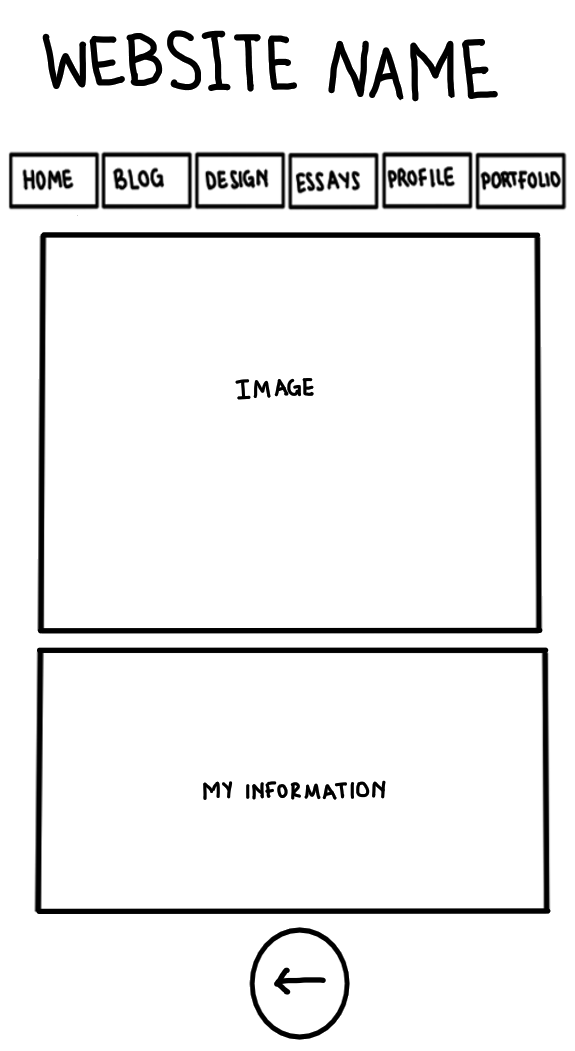
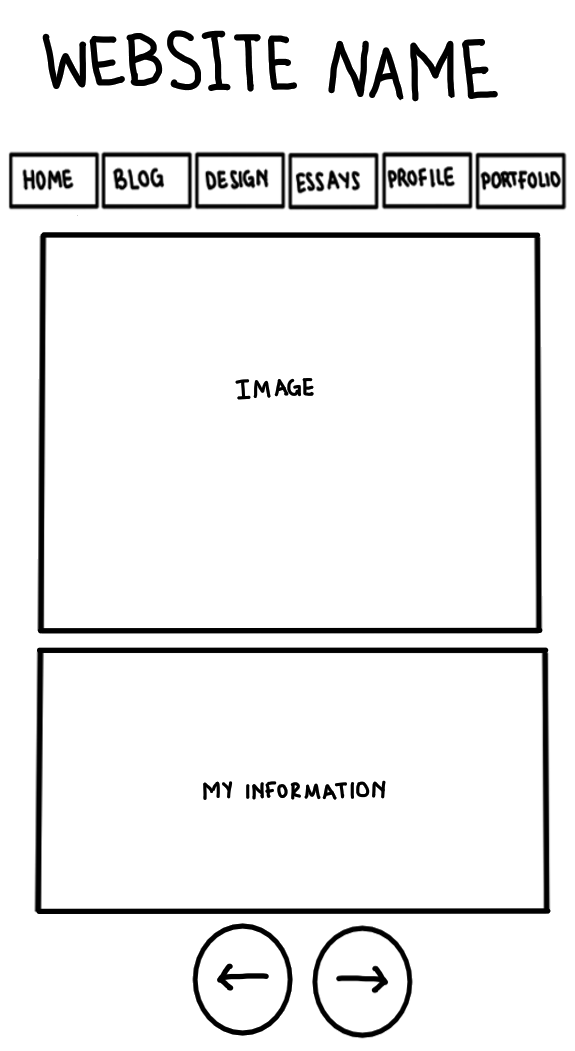
Added Placeholder Images for the different Homepages

Changed region(s): [[0.3252, 0.883, 0.7391, 1.0], [0.4139, 0.8525, 0.4435, 0.883]]

diff --git a/design/wireframes.html b/design/wireframes.html
@@ -34,39 +34,59 @@ Zandile's Website
     <h2>Homepage</h2>
     <img src="design-images/Home - Wireframe.png" width="900" height="700" alt="A wireframe image of my website's homepage" title="Homepage Wireframe">
     <img src="design-images/Home - Mobile Wireframe.png" width="350" height="700" alt="A wireframe image of a mobile verson of my website's homepage" title="Homepage Mobile Wireframe">
-    <p>The homepage will have the website name at the top of the page in the middle. Underneath it will be a navigation bar that the viewer can click to go to other pages. The rest of 
-       the page will be a large image that represents who I am or the theme of my website.</p>
+    <p>The homepage will have the website name at the top middle of the page. Underneath it will be a navigation menu that the user can click on to go to other pages. The rest of the
+       page will be a large image that represents the theme of my website. I might animate the image to make it move around the page. Underneath the image, there will be a button to go 
+       to the next page.</p>
+
+    <p>If I were to create a mobile version of my website, the homepage would look like the image on the right. As seen in the image, the mobile version has the same structure as the 
+       desktop version. The navigation menu and the website name will be at the top of the page. Also, because in the desktop version the image is landscape, I would have to make sure 
+       that the full image is visible and not scrollable with the portrait view of a mobile phone.</p>
     
     <h2>Blog</h2>
     <img src="design-images/Blog - Wireframe.png" width="900" height="700" alt="A wireframe image of my website's blog page" title="Blog Page Wireframe">
     <img src="design-images/Blog - Mobile Wireframe.png" width="350" height="700" alt="A wireframe image of a mobile verson of my website's blog page" title="Blog Page Mobile Wireframe">
-    <p>The blog page will have the website name at the top left corner and a navigation bar at the top right corner. On the left side of the page there will be links to other blog posts. 
+    <p>The blog page will have the website name at the top left corner and a navigation menu at the top right/middle. On the left side of the page there will be links to other blog posts. 
        The middle of the page will be the blog post that is currently opened (It will be made to look like the pages of a book hence there are two pages and a divider in the middle). On 
-       the right, there will be buttons to go back to the previous page as well as the next page.</p>
+       the right, there will be buttons to go back to the previous page or the next page.</p>
+   
+    <p>A mobile version of the blog page would have most of the same structure as the desktop version. Howvever, instead of the blog appearing as two open pages of a book, it will be one so the 
+       user will be able to flip the page by swiping on their screen from right to left. The back/next buttons would also be moved to the bottom of the page to accomodate the blog.</p>
 
     <h2>Design</h2>
     <img src="design-images/Design - Wireframe.png" width="900" height="700" alt="A wireframe image of my website's design page" title="Design Page Wireframe">
     <img src="design-images/Design - Mobile Wireframe.png" width="350" height="700" alt="A wireframe image of a mobile verson of my website's design page" title="Design Page Mobile Wireframe">
-    <p>The design page will have the website name at the top left corner and a navigation bar at the top right corner. On the left side of the page there will be images related to the whatever 
-       information is written in the middle of the page where it says "Design Process." Below it are buttons to go to go back to the previous page and the next page.</p>
+    <p>This is the structure for all the design pages (wireframes, IxD, and the style guide). The design pages will have the website name at the top left corner and a navigation menu at the top 
+       right/middle. On the left side of the page there will be images related to the topic written about in the middle of the page. Below it will be buttons to go back to the previous page and 
+       the next page.</p>
+
+    <p>A mobile version of the design pages would be structured a bit differently. The images would be placed at the top of the page after the menu then the paragraphs related to it would be
+       placed below it. The buttons would stay at the bottom of the page.</p>
 
     <h2>Essays</h2>
     <img src="design-images/Essays - Wireframe.png" width="900" height="700" alt="A wireframe image of my website's essay page" title="Essay Page Wireframe">
     <img src="design-images/Essays - Mobile Wireframe.png" width="350" height="700" alt="A wireframe image of a mobile verson of my website's essay page" title="Essay Page Mobile Wireframe">
-    <p>The essay page will have the website name at the top left corner and a navigation bar at the top right corner. On the left side of the page will be the title of the essay as well as a 
-       summary. The large rectangle is the essay. On the right there will be buttons to go back to the previous page and the next page.</p> 
+    <p>The essay page will have the website name at the top left corner and a navigation menu at the top right/middle. On the left side of the page will be the title of the essay as well as a 
+       summary. The essay will be in the middle of the page then the buttons will be placed next to it on the right.</p> 
+
+    <p>A mobile version of the essay pages will have the title and a summary at the top of the page. Then below it would be the essay and the buttons.</p>
 
     <h2>Profile</h2>
     <img src="design-images/Profile - Wireframe.png" width="900" height="700" alt="A wireframe image of my website's profile page" title="Profile Page Wireframe">  
     <img src="design-images/Profile - Mobile Wireframe.png" width="350" height="700" alt="A wireframe image of a mobile verson of my website's profile page" title="Profile Page Mobile Wireframe"> 
-    <p>The profile page will have the website name at the top left corner and a navigation bar at the top right corner. On the left there will be a picture of myself and on the right/middle 
-       there will be paragraphs with my information. Below this there will be buttons to go back and to go to the next page.</p>
+    <p>The profile page will have the website name at the top left corner and a navigation menu at the top right/middle. On the left there will be a picture of myself and in the middle there will 
+       be paragraphs with my information. Below this there will be buttons to go back and to go to the next page.</p>
+
+    <p>Like the design page, a mobile version of the profile page will have an image at the top and information at the bottom. The buttons will remain at the bottom of the page.</p>
 
     <h2>Portfolio</h2>
     <img src="design-images/Portfolio - Wireframe.png" width="900" height="700" alt="A wireframe image of my website's portfolio page" title="Portfolio Page Wireframe">
     <img src="design-images/Portfolio - Mobile Wireframe.png" width="350" height="700" alt="A wireframe image of a mobile verson of my website's portfolio page" title="Portfolio Page Mobile Wireframe">
-    <p>The portfolio page will have the website name at the top left corner and a navigation bar at the top right corner. The large rectangles represent screenshots of my artworks, digital art, games, 
-       and animations. Below them are "read more" buttons for viewers to see more information about the art as well as a button to go to the next page.</p>
+    <p>The portfolio page will have the website name at the top left corner and a navigation menu at the top right/middle. The large rectangles represent screenshots of my artworks, digital art, games, 
+       and animations. Below them will be "read more" buttons for users to see more information about the art as well as a button to go to the next page. The next page will be another page of works. I 
+       want to have one page for traditional art, another one for digital art, and a third one for my games. Because the Portfolio pages are last in the sequence of the website, the last portfolio page 
+       will have a button that takes the user back to the Homepage.</p>
+    
+    <p>A mobile version of the Portfolio page will show one panel at a time. Each one will take up the whole space on the screen so to go to the next panel, the user will click on the next button.</p>
 </main>
 
 <button id="wireframes1">Back</button>

diff --git a/scripts/buttons.js b/scripts/buttons.js
@@ -4,7 +4,7 @@ document.addEventListener("DOMContentLoaded", function() {
     const h1 = document.querySelector("h1");
 
     button.addEventListener("click", function() {
-        h1.innerText = "Welcome to my website";
+        h1.innerText = "WELCOME TO MY WEBSITE!";
     });
 });
 
@@ -28,111 +28,111 @@ document.addEventListener("DOMContentLoaded", function() {
 });
 
 document.addEventListener("DOMContentLoaded", function() {
-    document.getElementById("week1-blog1").addEventListener("click", function() {
+    document.getElementById("week1-Blog1").addEventListener("click", function() {
     window.location.href = "/WSOA3028A_2562617/blogs/index.html";
     });
 
-    document.getElementById("week1-blog2").addEventListener("click", function() {
+    document.getElementById("week1-Blog2").addEventListener("click", function() {
     window.location.href = "/WSOA3028A_2562617/blogs/week2.html";
     });
 });
 
 document.addEventListener("DOMContentLoaded", function() {
-    document.getElementById("week2-blog1").addEventListener("click", function() {
+    document.getElementById("week2-Blog1").addEventListener("click", function() {
     window.location.href = "/WSOA3028A_2562617/blogs/week1.html";
     });
 
-    document.getElementById("week2-blog2").addEventListener("click", function() {
+    document.getElementById("week2-Blog2").addEventListener("click", function() {
     window.location.href = "/WSOA3028A_2562617/blogs/week3.html";
     });
 });
 
 document.addEventListener("DOMContentLoaded", function() {
-    document.getElementById("week3-blog1").addEventListener("click", function() {
+    document.getElementById("week3-Blog1").addEventListener("click", function() {
     window.location.href = "/WSOA3028A_2562617/blogs/week2.html";
     });
 
-    document.getElementById("week3-blog2").addEventListener("click", function() {
+    document.getElementById("week3-Blog2").addEventListener("click", function() {
     window.location.href = "/WSOA3028A_2562617/blogs/week4.html";
     });
 });
 
 document.addEventListener("DOMContentLoaded", function() {
-    document.getElementById("week4-blog1").addEventListener("click", function() {
+    document.getElementById("week4-Blog1").addEventListener("click", function() {
     window.location.href = "/WSOA3028A_2562617/blogs/week3.html";
     });
 
-    document.getElementById("week4-blog2").addEventListener("click", function() {
+    document.getElementById("week4-Blog2").addEventListener("click", function() {
     window.location.href = "/WSOA3028A_2562617/blogs/week6.html";
     });
 });
 
 document.addEventListener("DOMContentLoaded", function() {
-    document.getElementById("week6-blog1").addEventListener("click", function() {
+    document.getElementById("week6-Blog1").addEventListener("click", function() {
     window.location.href = "/WSOA3028A_2562617/blogs/week4.html";
     });
 
-    document.getElementById("week6-blog2").addEventListener("click", function() {
+    document.getElementById("week6-Blog2").addEventListener("click", function() {
     window.location.href = "/WSOA3028A_2562617/blogs/week8.html";
     });
 });
 
 document.addEventListener("DOMContentLoaded", function() {
-    document.getElementById("week8-blog1").addEventListener("click", function() {
+    document.getElementById("week8-Blog1").addEventListener("click", function() {
     window.location.href = "/WSOA3028A_2562617/blogs/week6.html";
     });
 
-    document.getElementById("week8-blog2").addEventListener("click", function() {
+    document.getElementById("week8-Blog2").addEventListener("click", function() {
     window.location.href = "/WSOA3028A_2562617/blogs/week9.html";
     });
 });
 
 document.addEventListener("DOMContentLoaded", function() {
-    document.getElementById("week9-blog1").addEventListener("click", function() {
+    document.getElementById("week9-Blog1").addEventListener("click", function() {
     window.location.href = "/WSOA3028A_2562617/blogs/week8.html";
     });
 
-    document.getElementById("week9-blog2").addEventListener("click", function() {
+    document.getElementById("week9-Blog2").addEventListener("click", function() {
     window.location.href = "/WSOA3028A_2562617/blogs/week10.html";
     });
 });
 
 document.addEventListener("DOMContentLoaded", function() {
-    document.getElementById("week10-blog1").addEventListener("click", function() {
+    document.getElementById("week10-Blog1").addEventListener("click", function() {
     window.location.href = "/WSOA3028A_2562617/blogs/week9.html";
     });
 
-    document.getElementById("week10-blog2").addEventListener("click", function() {
+    document.getElementById("week10-Blog2").addEventListener("click", function() {
     window.location.href = "/WSOA3028A_2562617/blogs/week11.html";
     });
 });
 
 document.addEventListener("DOMContentLoaded", function() {
-    document.getElementById("week11-blog1").addEventListener("click", function() {
+    document.getElementById("week11-Blog1").addEventListener("click", function() {
     window.location.href = "/WSOA3028A_2562617/blogs/week10.html";
     });
 
-    document.getElementById("week11-blog2").addEventListener("click", function() {
+    document.getElementById("week11-Blog2").addEventListener("click", function() {
     window.location.href = "/WSOA3028A_2562617/blogs/week12.html";
     });
 });
 
 document.addEventListener("DOMContentLoaded", function() {
-    document.getElementById("week12-blog1").addEventListener("click", function() {
+    document.getElementById("week12-Blog1").addEventListener("click", function() {
     window.location.href = "/WSOA3028A_2562617/blogs/week11.html";
     });
 
-    document.getElementById("week12-blog2").addEventListener("click", function() {
+    document.getElementById("week12-Blog2").addEventListener("click", function() {
     window.location.href = "/WSOA3028A_2562617/blogs/week13.html";
     });
 });
 
 document.addEventListener("DOMContentLoaded", function() {
-    document.getElementById("week13-blog1").addEventListener("click", function() {
+    document.getElementById("week13-Blog1").addEventListener("click", function() {
     window.location.href = "/WSOA3028A_2562617/blogs/week12.html";
     });
 
-    document.getElementById("week13-blog2").addEventListener("click", function() {
+    document.getElementById("week13-Blog2").addEventListener("click", function() {
     window.location.href = "/WSOA3028A_2562617/design/index.html";
     });
 });
@@ -169,11 +169,11 @@ document.addEventListener("DOMContentLoaded", function() {
 });
 
 document.addEventListener("DOMContentLoaded", function() {
-    document.getElementById("style-guide1").addEventListener("click", function() {
+    document.getElementById("styleGuide1").addEventListener("click", function() {
     window.location.href = "/WSOA3028A_2562617/design/ixd.html";
     });
 
-    document.getElementById("style-guide2").addEventListener("click", function() {
+    document.getElementById("styleGuide2").addEventListener("click", function() {
     window.location.href = "/WSOA3028A_2562617/essays/index.html";
     });
 });

diff --git a/design/index.html b/design/index.html
@@ -11,6 +11,7 @@
     <script type="module"> import { initialiseMenu } from "../scripts/menu.js" 
     initialiseMenu("Design Process")</script>
     <script type ="module" src="../scripts/buttons.js"></script>
+    <script src="../scripts/other-elements.js"></script>
 </head>
 <body>
 
@@ -22,14 +23,11 @@ Zandile's Website
                 
 <main>
 <h1 class="pageName">DESIGN PROCESS</h1>
+<button onclick="designHome()">Read This First</button><br>
 
-<nav>
-<ul>
-    <li><a href="wireframes.html">Wireframes</a></li>
-    <li><a href="ixd.html">IxD Process</a></li>
-    <li><a href="style-guide.html">Style Guide</a></li>
-</ul>
-</nav>
+<a href="wireframes.html"><img src="design-images/Placeholer Image.png" width="497" height="500" alt="A blank placeholder image" title="Wireframes Placeholder Image"></a>
+<a href="ixd.html"><img src="design-images/Placeholer Image 2.png" width="497" height="500" alt="A blank placeholder image" title="IxD Placeholder Image"></a>
+<a href="style-guide.html"><img src="design-images/Placeholer Image 3.png" width="497" height="500" alt="A blank placeholder image" title="Style Guide Placeholder Image"></a>
 </main>
 
 <button id="designHome1">Back</button>

diff --git a/portfolio/index.html b/portfolio/index.html
@@ -11,6 +11,7 @@
     <script type="module"> import { initialiseMenu } from "../scripts/menu.js" 
     initialiseMenu("Portfolio")</script>
     <script type ="module" src="../scripts/buttons.js"></script>
+    <script src="../scripts/other-elements.js"></script>
 </head>
 <body>
 
@@ -22,14 +23,10 @@ Zandile's Website
                 
 <main>
 <h1 class="pageName">PORTFOLIO</h1>
+<button onclick="portfolioHome()">Read This First</button><br>
 
-<nav>
-<ul>
-    <li><a href="profile.html">Profile</a></li>
-    <li><a href="portfolio.html">Portfolio</a></li>
-</ul>
-</nav>
-</main>
+<a href="profile.html"><img src="portfolio-images/Placeholer Image.png" width="749" height="700" alt="A blank placeholder image" title="Profile Placeholder Image"></a>
+<a href="portfolio.html"><img src="portfolio-images/Placeholer Image 2.png" width="749" height="700" alt="A blank placeholder image" title="Portfolio Placeholder Image"></a>
 
 <button id="portfolioHome1">Back</button>
 <button id="portfolioHome2">Next</button>

diff --git a/essays/index.html b/essays/index.html
@@ -11,6 +11,7 @@
     <script type="module">import { initialiseMenu } from "../scripts/menu.js" 
      initialiseMenu("Essays")</script>
     <script type ="module" src="../scripts/buttons.js"></script>
+    <script src="../scripts/other-elements.js"></script>
 </head>
 <body>
 
@@ -22,13 +23,10 @@ Zandile's Website
                 
 <main>
 <h1 class="pageName">ESSAYS</h1>
+<button onclick="essaysHome()">Read This First</button><br>
 
-<nav>
-<ul>
-    <li><a href="essay1.html">UI & UX Analysis</a></li>
-    <li><a href="essay2.html"></a></li>
-</ul>
-</nav>
+<a href="essay1.html"><img src="essay-images/Placeholer Image.png" width="749" height="700" alt="A blank placeholder image" title="Essay 1 Placeholder Image"></a>
+<a href="essay2.html"><img src="essay-images/Placeholer Image 2.png" width="749" height="700" alt="A blank placeholder image" title="Essay 2 Placeholder Image"></a>
 </main>
 
 <button id="essaysHome1">Back</button>

diff --git a/blogs/index.html b/blogs/index.html
@@ -11,6 +11,7 @@
     <script type="module"> import { initialiseMenu } from "../scripts/menu.js" 
      initialiseMenu("Blog Posts")</script>
     <script type ="module" src="../scripts/buttons.js"></script>
+    <script src="../scripts/other-elements.js"></script>
 </head>
 <body>
 
@@ -22,6 +23,9 @@ Zandile's Website
                 
 <main>
 <h1 class="pageName">BLOG POSTS</h1>
+
+<button onclick="blogHome()">Click Here</button>
+<br><br>
 
 <details>
 	<summary>Week 1</summary>

diff --git a/scripts/other-elements.js b/scripts/other-elements.js
@@ -1,0 +1,16 @@
+//Pop-up Messages for each of the homepages
+function blogHome() {
+alert("This is a list of all my blog posts.");
+}
+
+function designHome() {
+alert("Click on the preferred image to open the each section of the Design Process.");
+}
+
+function essaysHome() {
+alert("Click on the preferred image to open the essay.");
+}
+
+function portfolioHome() {
+alert("Click on the preferred image to find out more about me in my Profile and Portfolio sections.");
+}

diff --git a/design/style-guide.html b/design/style-guide.html
@@ -58,8 +58,8 @@ Zandile's Website
           the cream colour, the light orange, and the red.</p>
 </main>
 
-<button id="style-guide1">Back</button>
-<button id="style-guide2">Next</button>
+<button id="styleGuide1">Back</button>
+<button id="styleGuide2">Next</button>
 
 <footer>Zandile Gebuza 2024</footer>
 </body>

diff --git a/index.html b/index.html
@@ -11,10 +11,10 @@
     <script type="module"> import { initialiseMenu } from "./scripts/menu.js"
     initialiseMenu("Home")</script>
     <script type ="module" src="./scripts/buttons.js"></script>
+    <script src="./scripts/other-elements.js"></script>
 </head>
 
 <body>
-
 <header>
 Zandile's Website
 

diff --git a/blogs/week2.html b/blogs/week2.html
@@ -125,8 +125,8 @@ Zandile's Website
         </article>  
 </main>
 
-<button id="week2-blog1">Back</button>
-<button id="week2-blog2">Next</button> 
+<button id="week2-Blog1">Back</button>
+<button id="week2-Blog2">Next</button> 
 
 <footer>Zandile Gebuza 2024</footer>
 </body>

diff --git a/blogs/week3.html b/blogs/week3.html
@@ -94,8 +94,8 @@ Zandile's Website
         </article>
 </main>
 
-<button id="week3-blog1">Back</button>
-<button id="week3-blog2">Next</button>
+<button id="week3-Blog1">Back</button>
+<button id="week3-Blog2">Next</button>
 
 <footer>Zandile Gebuza 2024</footer>
 </body>

diff --git a/blogs/week1.html b/blogs/week1.html
@@ -83,8 +83,8 @@ Zandile's Website
     </article>
 </main>
 
-<button id="week1-blog1">Back</button>
-<button id="week1-blog2">Next</button>
+<button id="week1-Blog1">Back</button>
+<button id="week1-Blog2">Next</button>
 
 <footer>Zandile Gebuza 2024</footer>
 </body>
